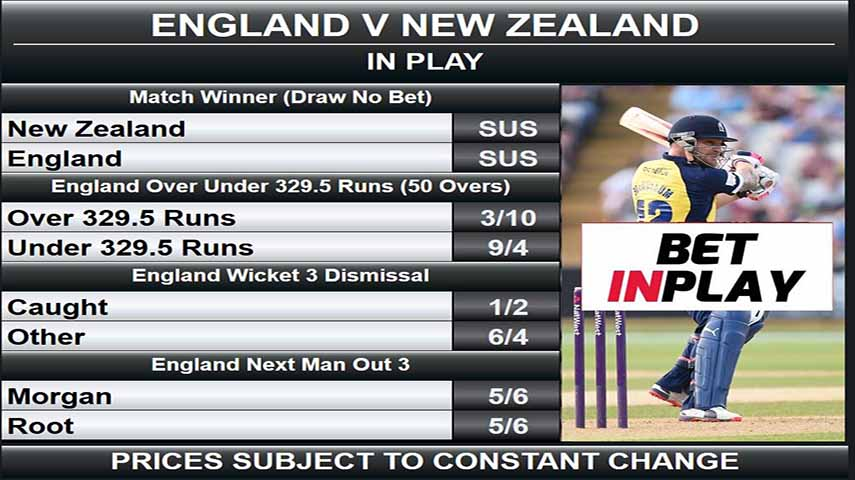
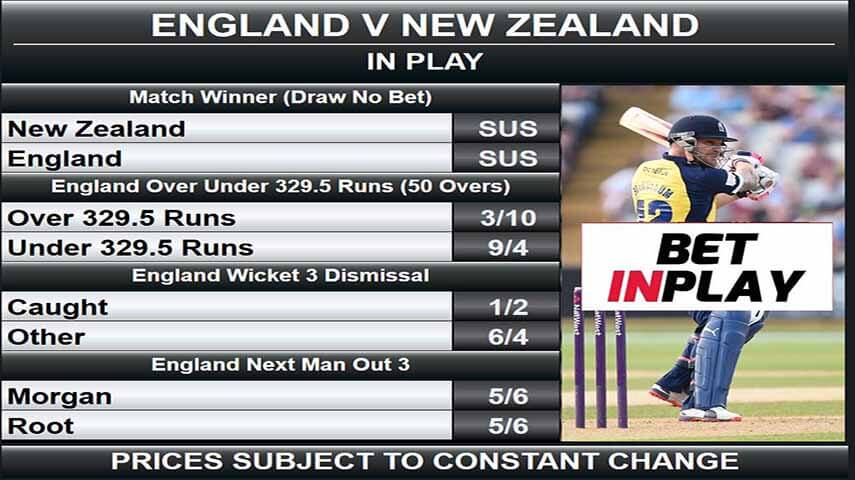
fix:removed webp for ios

Changed region(s): [[0.0608, 0.3125, 0.0912, 0.3438]]

diff --git a/index.html b/index.html
@@ -42,8 +42,8 @@
 
     <!-- Open Graph data -->
     <meta property="og:title" content="David Jolliffe Portfolio (Javascript Developer)"/>
-    <meta property="og:image" content="images/IMG1.webp"/>
-    <meta property="og:image" content="images/IMG1.webp"/>
+    <meta property="og:image" content="images/IMG1.JPG"/>
+    <meta property="og:image" content="images/IMG1.JPG"/>
     <meta property="og:site_name" content="David Jolliffe Portfolio"/>
     <meta property="og:description" content="The portfolio of the Javascript Developer David Jolliffe."/>
     <meta property="og:type" content="website"/>
@@ -86,7 +86,7 @@
     <div class="intro">
         <div class="container text-center">
             <div class="imageContainer">
-            <img class="profile-image" src="images/IMG1.webp" alt="">
+            <img class="profile-image" src="images/IMG1.JPG" alt="">
             </div>
             <h1 class="name">David Paul Jolliffe</h1>
             <div class="title">Front-end Developer</div>
@@ -326,9 +326,9 @@
      <div class="imageWrapper">
     <div class="scrollHide">
  
-    <a class="screenLink" data-fancybox href="../images/football1Large.webp" data-caption="Live up to the second betting markets." style="color:#fff;">
+    <a class="screenLink" data-fancybox href="images/football1Large.png" data-caption="Live up to the second betting markets." style="color:#fff;">
         <figure class="screen">
-            <img class="screenImage" src="../images/football1.webp" alt="Sports Screen">
+            <img class="screenImage" src="images/football1.PNG" alt="Sports Screen">
             <figcaption>
                 <h5 id="imageOne">Live Football</h5>
                 <p class="screenEnlarge">Click To Enlarge</p>
@@ -336,9 +336,9 @@
         </figure>
     </a>
    
-    <a class="screenLink" data-fancybox href="../images/inplayLarge.webp" data-caption="Inplay screen templates for use with multiple sports markets." style="color:#fff;">
+    <a class="screenLink" data-fancybox href="images/inplayLarge.png" data-caption="Inplay screen templates for use with multiple sports markets." style="color:#fff;">
         <figure class="screen">
-            <img class="screenImage" src="../images/inplay2.webp" alt="Portfolio Item">
+            <img class="screenImage" src="images/inplaysmall.png" alt="Portfolio Item">
             <figcaption>
                 <h5 id="imageTwo">Inplay Sports</h5>
                 <p class="screenEnlarge">Click To Enlarge</p>
@@ -346,9 +346,9 @@
         </figure>
     </a>
 
-    <a class="screenLink" data-fancybox href="../images/virtualLarge.webp" data-caption="Live and virtual horse racing, fully automated to adjust to various field sizes." style="color:#fff;">
+    <a class="screenLink" data-fancybox href="images/virtualLarge.JPG" data-caption="Live and virtual horse racing, fully automated to adjust to various field sizes." style="color:#fff;">
         <figure class="screen">
-            <img class="screenImage" src="../images/virtualSmall.webp" alt="Portfolio Item">
+            <img class="screenImage" src="images/virtualSmall.jpg" alt="Portfolio Item">
             <figcaption>
                 <h5 id="imageThree">Virtual Racing</h5>
                 <p class="screenEnlarge">Click To Enlarge</p>
@@ -356,9 +356,9 @@
         </figure>
     </a>
 
-    <a class="screenLink" data-fancybox href="../images/gnLarge.webp" data-caption="Huge unique event screens made as required." style="color:#fff;" text-decoration: none;>
+    <a class="screenLink" data-fancybox href="images/gnLarge.PNG" data-caption="Huge unique event screens made as required." style="color:#fff;" text-decoration: none;>
         <figure class="screen">
-            <img class="screenImage" src="../images/gnSmall.webp" alt="Portfolio Item">
+            <img class="screenImage" src="images/gnSmall.png" alt="Portfolio Item">
             <figcaption>
                 <h5 id="imageFour">Event Screens</h5>
                 <p class="screenEnlarge">Click To Enlarge</p>
@@ -366,9 +366,9 @@
         </figure>
     </a>
 
-    <a class="screenLink" data-fancybox href="../images/greyhoundLarge.webp" data-caption="Live and virtual greyhound racing." style="color:#fff;" text-decoration: none;>
+    <a class="screenLink" data-fancybox href="images/greyhoundLarge.JPG" data-caption="Live and virtual greyhound racing." style="color:#fff;" text-decoration: none;>
         <figure class="screen">
-            <img class="screenImage" src="../images/greyhoundSmall.webp" alt="Portfolio Item">
+            <img class="screenImage" src="images/greyhoundSmall.jpg" alt="Portfolio Item">
             <figcaption>
                 <h5 id="imageFive">Greyhounds Racing</h5>
                 <p class="screenEnlarge">Click To Enlarge</p>
@@ -376,9 +376,9 @@
         </figure>
     </a>
 
-    <a class="screenLink" data-fancybox href="../images/snookerLarge.webp" data-caption="Nationwide arena event screens on display in store and venues." style="color:#fff;" text-decoration: none;>
+    <a class="screenLink" data-fancybox href="images/snookerLarge.PNG" data-caption="Nationwide arena event screens on display in store and venues." style="color:#fff;" text-decoration: none;>
         <figure class="screen">
-            <img class="screenImage" src="../images/snookerSmall.webp" alt="Portfolio Item">
+            <img class="screenImage" src="images/snookerSmall.png" alt="Portfolio Item">
             <figcaption>
                 <h5 id="imageSix">World Snooker</h5>
                 <p class="screenEnlarge">Click To Enlarge</p>
@@ -386,9 +386,9 @@
         </figure>
     </a>
 
-    <a class="screenLink" data-fancybox href="../images/tennisLarge.webp" data-caption="Multiple market custom made screens." style="color:#fff;" text-decoration: none;>
+    <a class="screenLink" data-fancybox href="images/tennisLarge.JPG" data-caption="Multiple market custom made screens." style="color:#fff;" text-decoration: none;>
         <figure class="screen">
-            <img class="screenImage" src="../images/tennisSmall.webp" alt="Portfolio Item">
+            <img class="screenImage" src="images/tennisSmall.jpg" alt="Portfolio Item">
             <figcaption>
                 <h5 id="imageSeven">Tennis Matches</h5>
                 <p class="screenEnlarge">Click To Enlarge</p>
@@ -396,9 +396,9 @@
         </figure>
     </a>
 
-    <a class="screenLink" data-fancybox href="../images/boxingLarge.webp" data-caption="Custom made pre event screens." style="color:#fff;" text-decoration: none;>
+    <a class="screenLink" data-fancybox href="images/boxingLarge.JPG" data-caption="Custom made pre event screens." style="color:#fff;" text-decoration: none;>
         <figure class="screen">
-            <img class="screenImage" src="../images/boxingSmall.webp" alt="Portfolio Item">
+            <img class="screenImage" src="images/boxingSmall.jpg" alt="Portfolio Item">
             <figcaption>
                 <h5 id="imageEight">Pre Big Fight</h5>
                 <p class="screenEnlarge">Click To Enlarge</p>
@@ -406,9 +406,9 @@
         </figure>
     </a>
 
-    <a class="screenLink" data-fancybox href="../images/nflLarge.webp" data-caption="American sports NFL, NHL etc." style="color:#fff;" text-decoration: none;>
+    <a class="screenLink" data-fancybox href="images/nflLarge.PNG" data-caption="American sports NFL, NHL etc." style="color:#fff;" text-decoration: none;>
         <figure class="screen">
-            <img class="screenImage" src="../images/nflSmall.webp" alt="Portfolio Item">
+            <img class="screenImage" src="images/nflSmall.png" alt="Portfolio Item">
             <figcaption>
                 <h5 id="imageNine">NFL Superbowl</h5>
                 <p class="screenEnlarge">Click To Enlarge</p>
@@ -416,9 +416,9 @@
         </figure>
     </a>
 
-    <a class="screenLink" data-fancybox href="../images/criketLarge.webp" data-caption="Sports screens designed to adjust to different forms of the sport." style="color:#fff;" text-decoration: none;>
+    <a class="screenLink" data-fancybox href="images/criketLarge.JPG" data-caption="Sports screens designed to adjust to different forms of the sport." style="color:#fff;" text-decoration: none;>
         <figure class="screen">
-            <img class="screenImage" src="../images/criketSmall.webp" alt="Portfolio Item">
+            <img class="screenImage" src="images/criketSmall.jpg" alt="Portfolio Item">
             <figcaption>
                 <h5 id="imageTen">Cricket Inplay</h5>
                 <p class="screenEnlarge">Click To Enlarge</p>
@@ -426,18 +426,18 @@
         </figure>
     </a>
 
-    <a class="screenLink" data-fancybox href="../images/snookerPriceBoostLarge.webp" data-caption="Marketing promotion screens produced to tight deadlines." style="color:#fff;" text-decoration: none;>
+    <a class="screenLink" data-fancybox href="images/snookerPriceBoostLarge.png" data-caption="Marketing promotion screens produced to tight deadlines." style="color:#fff;" text-decoration: none;>
         <figure class="screen">
-            <img class="screenImage" src="../images/snookerPriceBoostSmall.webp" alt="Portfolio Item">
+            <img class="screenImage" src="images/snookerPriceBoostSmall.png" alt="Portfolio Item">
             <figcaption>
                 <h5 id="imageEleven">Special Offers</h5>
                 <p class="screenEnlarge">Click To Enlarge</p>
             </figcaption>
         </figure>
     </a>
-    <a class="screenLink" data-fancybox href="../images/rugbyLarge.webp" data-caption="Live up to the second betting markets." style="color:#fff;" text-decoration: none;>
+    <a class="screenLink" data-fancybox href="images/rugbyLarge.PNG" data-caption="Live up to the second betting markets." style="color:#fff;" text-decoration: none;>
         <figure class="screen">
-            <img class="screenImage" src="../images/rugbySmall.webp" alt="Portfolio Item">
+            <img class="screenImage" src="images/rugbySmall.png" alt="Portfolio Item">
             <figcaption>
                 <h5 id="imageTwelve">Live Rugby</h5>
                 <p class="screenEnlarge">Click To Enlarge</p>
@@ -471,7 +471,7 @@
 					
 					<div class="col-md-10 blogShort">
                      <h3 class="appTitle">Touch Typing Tutor</h3>
-                     <img src="images/touchtype.webp" alt="post img" class="pull-left img-responsive appImage">
+                     <img src="images/touchtype.PNG" alt="touchtyping img" class="pull-left img-responsive appImage">
                     
                      <article class="appArticle"><p>
                          A touch typing tutor program with 21 lessons, built with React and Redux.  
@@ -486,7 +486,7 @@
 					
 					<div class="col-md-10 blogShort">
                      <h3 class="appTitle">PodRaker PodCast Search and Player</h3>
-                     <img src="images/podraker.webp" alt="post img" class="pull-left img-responsive appImage">
+                     <img src="images/podraker.PNG" alt="podraker img" class="pull-left img-responsive appImage">
                     
                      <article class="appArticle"><p>
                         A Podcast search engine and player built using React and Redux.   
@@ -500,7 +500,7 @@
 					
 					<div class="col-md-10 blogShort">
                      <h3 class="appTitle">Elite Travel Scilly Isles</h3>
-                     <img src="images/eliteTravel.webp" alt="post img" class="pull-left img-responsive appImage">
+                     <img src="images/eliteTravel.PNG" alt="travel img" class="pull-left img-responsive appImage">
                     
                      <article class="appArticle"><p>
                         A Project for a small travel agency promoting the beautiful Isles of Scilly, built using Php.   
@@ -517,7 +517,7 @@
 					
 					<div class="col-md-10 blogShort">
                      <h3 class="appTitle">Stocks and Shares App</h3>
-                     <img src="images/dataGraph.webp" alt="post img" class="pull-left img-responsive appImage">
+                     <img src="images/dataGraph.jpg" alt="post img" class="pull-left img-responsive appImage">
                     
                      <article class="appArticle"><p>
                          Stock tracker with live business news feeds also currency and commodities prices. Developed with Node & Express. Add stock symbols to the portfolio and view up-to-date chart information with three different styles of chart and various trading periods to choose from.    
@@ -612,7 +612,7 @@
                         </div>
 
                         <figure class="figure">
-                            <img class="img-fluid" src="images/fccAlexa.webp" alt="ffc"/>
+                            <img class="img-fluid" src="images/fccAlexa.png" alt="ffc"/>
 					
                         </figure>
 
